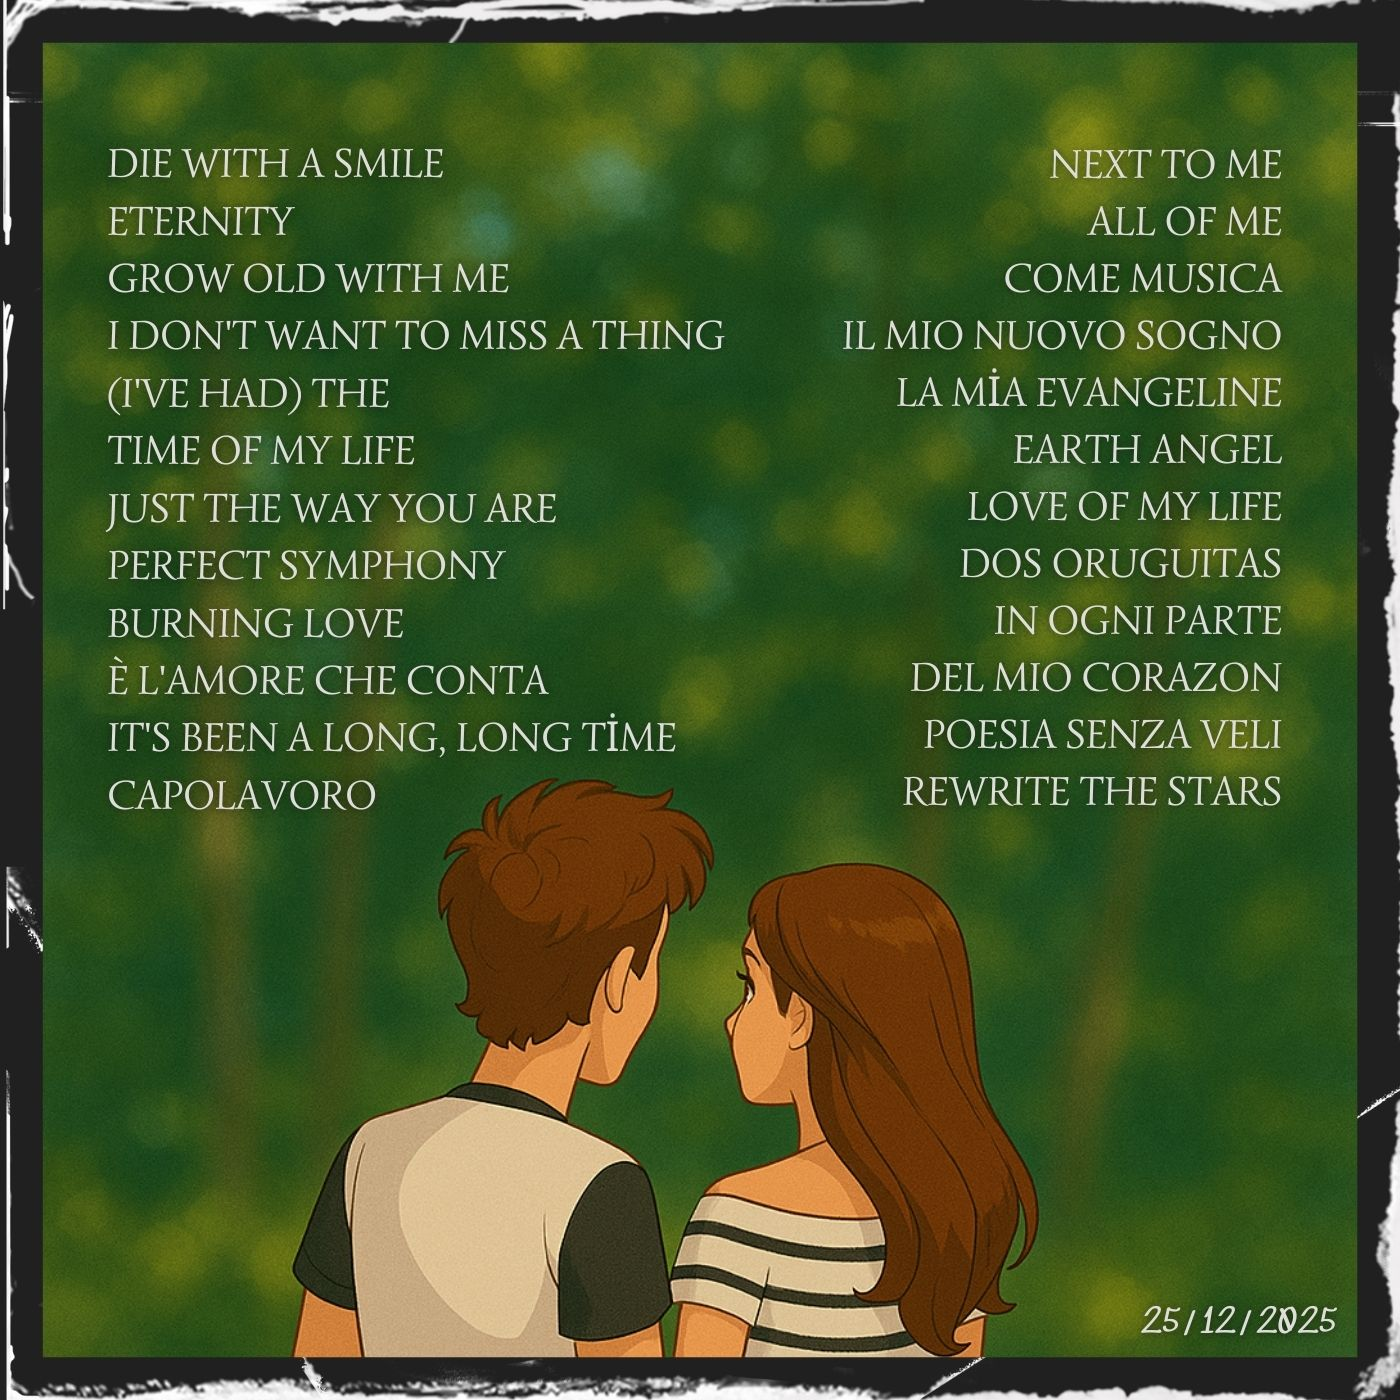
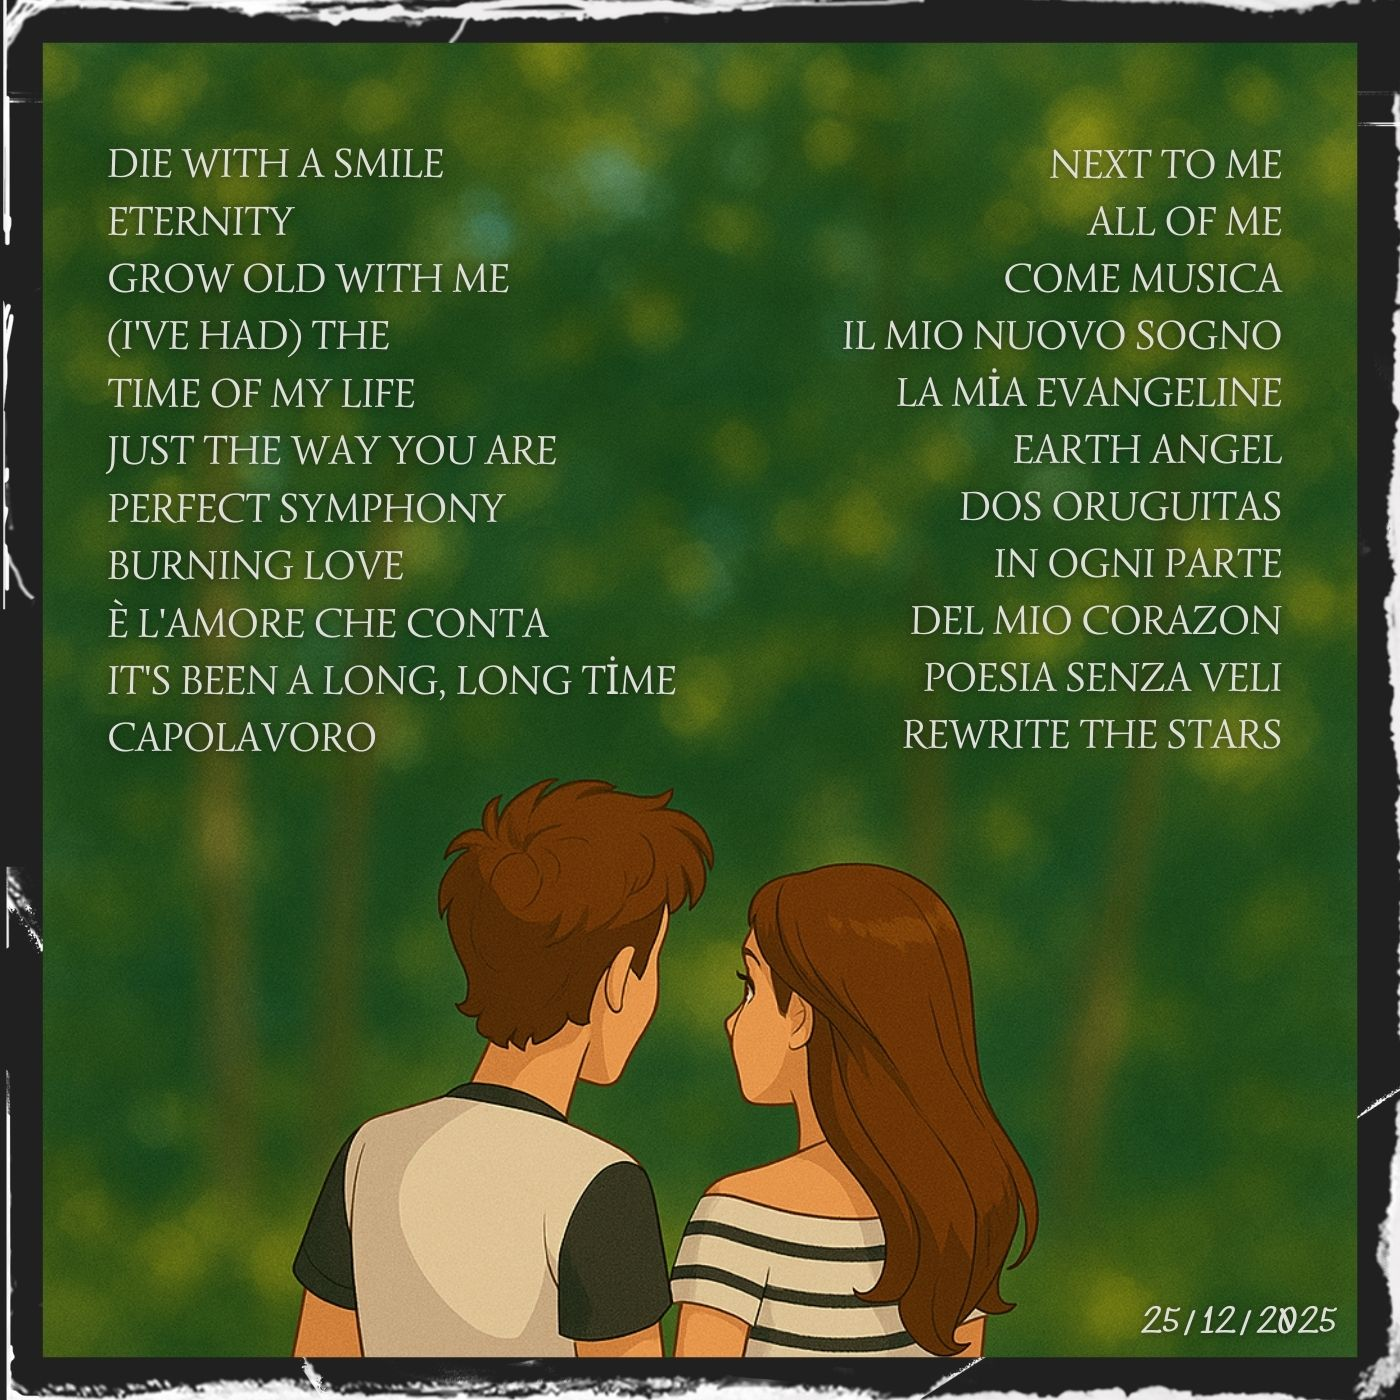
v0.011 feat: add new album cover image and implement a 200ms debounce for the preload screen display.

Changed region(s): [[0.0614, 0.215, 0.5221, 0.5836], [0.645, 0.3379, 0.9214, 0.5836]]

diff --git a/script.js b/script.js
@@ -373,32 +373,14 @@ async function loadTrack(index, showPreload = true) {
     currentTrackIndex = index;
     const track = tracks[index];
 
-    // Controlla se le risorse sono già in cache
-    const isAudioCached = audioCache.has(track.file);
-    // Per l'immagine è più complesso perché non sappiamo quale estensione è stata caricata
-    // ma possiamo controllare se c'è un'immagine associata a questo file in un modo approssimativo
-    // oppure caricarla e vedere se è veloce.
-    // Un approccio migliore è controllare se abbiamo già caricato questa traccia in precedenza
-    // o se le risorse sono in cache.
+    // Gestione Preload con Debounce
+    // Mostra la schermata di preload solo se il caricamento impiega più di 200ms
+    let preloadTimer = null;
 
-    // Per semplicità, se showPreload è true, controlliamo la cache
-    let shouldShowPreload = showPreload;
-
-    if (showPreload && isAudioCached) {
-        // Se l'audio è in cache, probabilmente anche l'immagine lo è (dato che precarichiamo tutto insieme)
-        // Ma per sicurezza potremmo voler mostrare comunque il preload se non siamo sicuri.
-        // Tuttavia, la richiesta dell'utente è specifica: "se tutte le risorse fossero già pronte il preload non appaia proprio"
-
-        // Verifichiamo se l'immagine è in cache (l'URL esatto potrebbe non essere noto facilmente qui senza ricalcolarlo
-        // ma possiamo assumere che se l'audio è cached, il grosso è fatto).
-
-        // Ottimizzazione: se l'audio è in cache, evitiamo il preload VISIVO, ma facciamo comunque le chiamate load
-        shouldShowPreload = false;
-    }
-
-    // Mostra la schermata di preload (se richiesto e necessario)
-    if (shouldShowPreload) {
-        preloadScreen.classList.add('active');
+    if (showPreload) {
+        preloadTimer = setTimeout(() => {
+            preloadScreen.classList.add('active');
+        }, 200);
     }
 
     // Aggiorna artista e titolo immediatamente
@@ -531,12 +513,13 @@ async function loadTrack(index, showPreload = true) {
     // Attendi che tutte le risorse siano pronte
     await Promise.allSettled(loadPromises);
 
-    // Nascondi la schermata di preload (se era visibile)
-    if (showPreload) {
-        setTimeout(() => {
-            preloadScreen.classList.remove('active');
-        }, 300);
+    // Pulisci il timer del preload (se il caricamento è stato veloce, il preload non apparirà mai)
+    if (preloadTimer) {
+        clearTimeout(preloadTimer);
     }
+
+    // Nascondi la schermata di preload (se era visibile)
+    preloadScreen.classList.remove('active');
 }
 
 // ============================================
